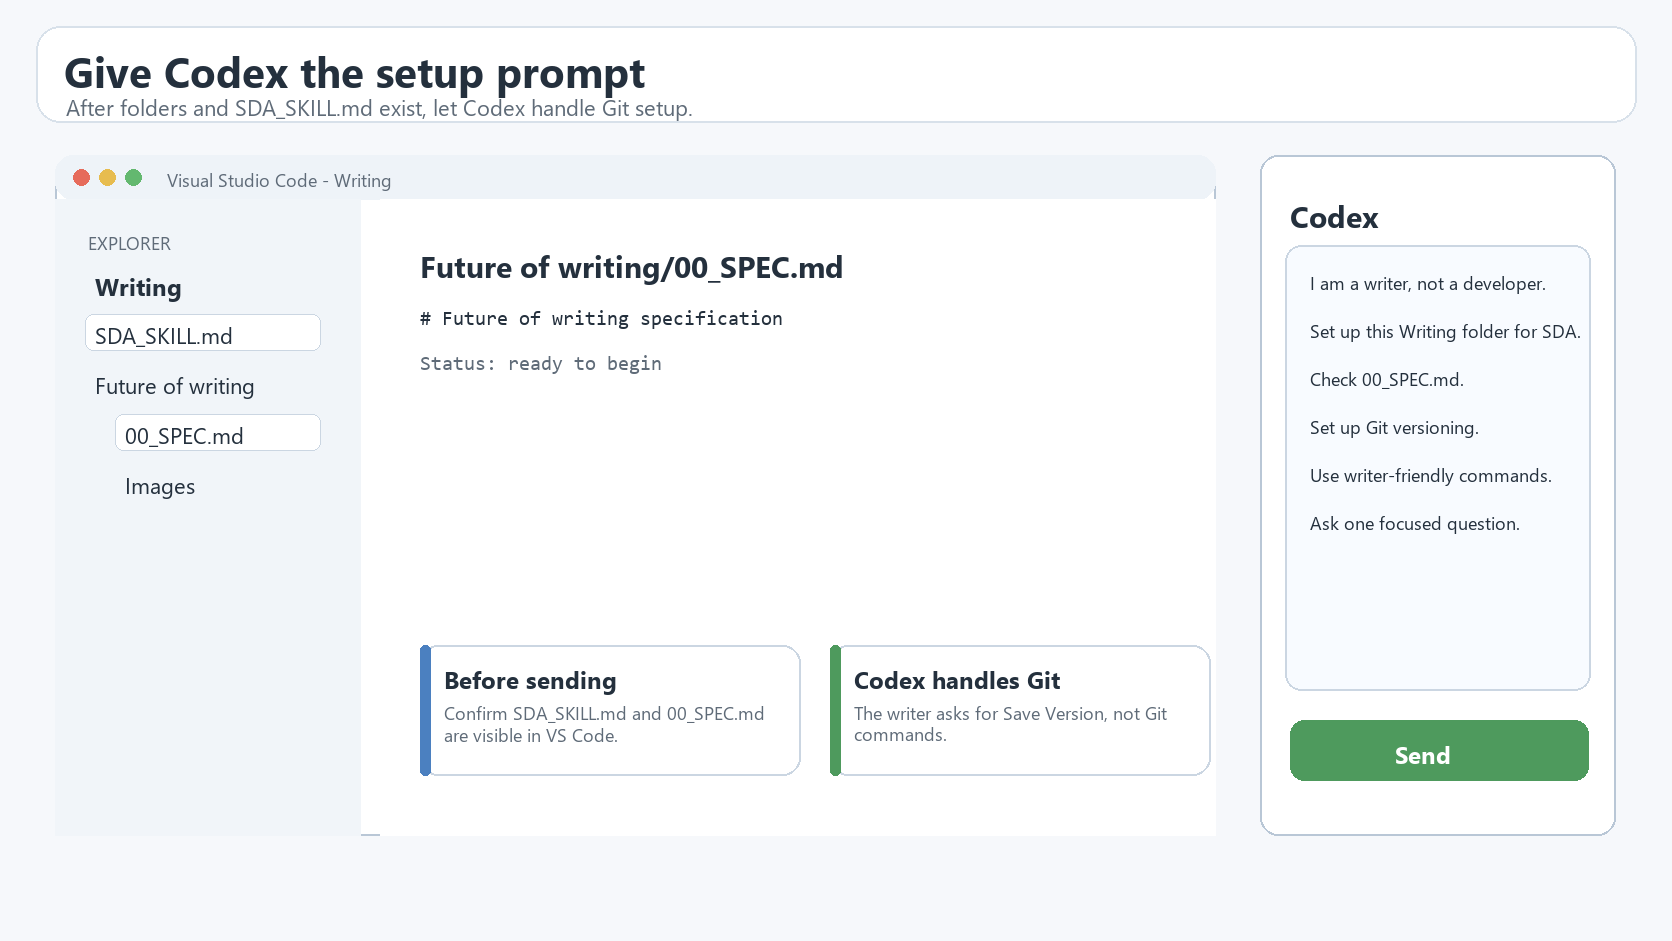
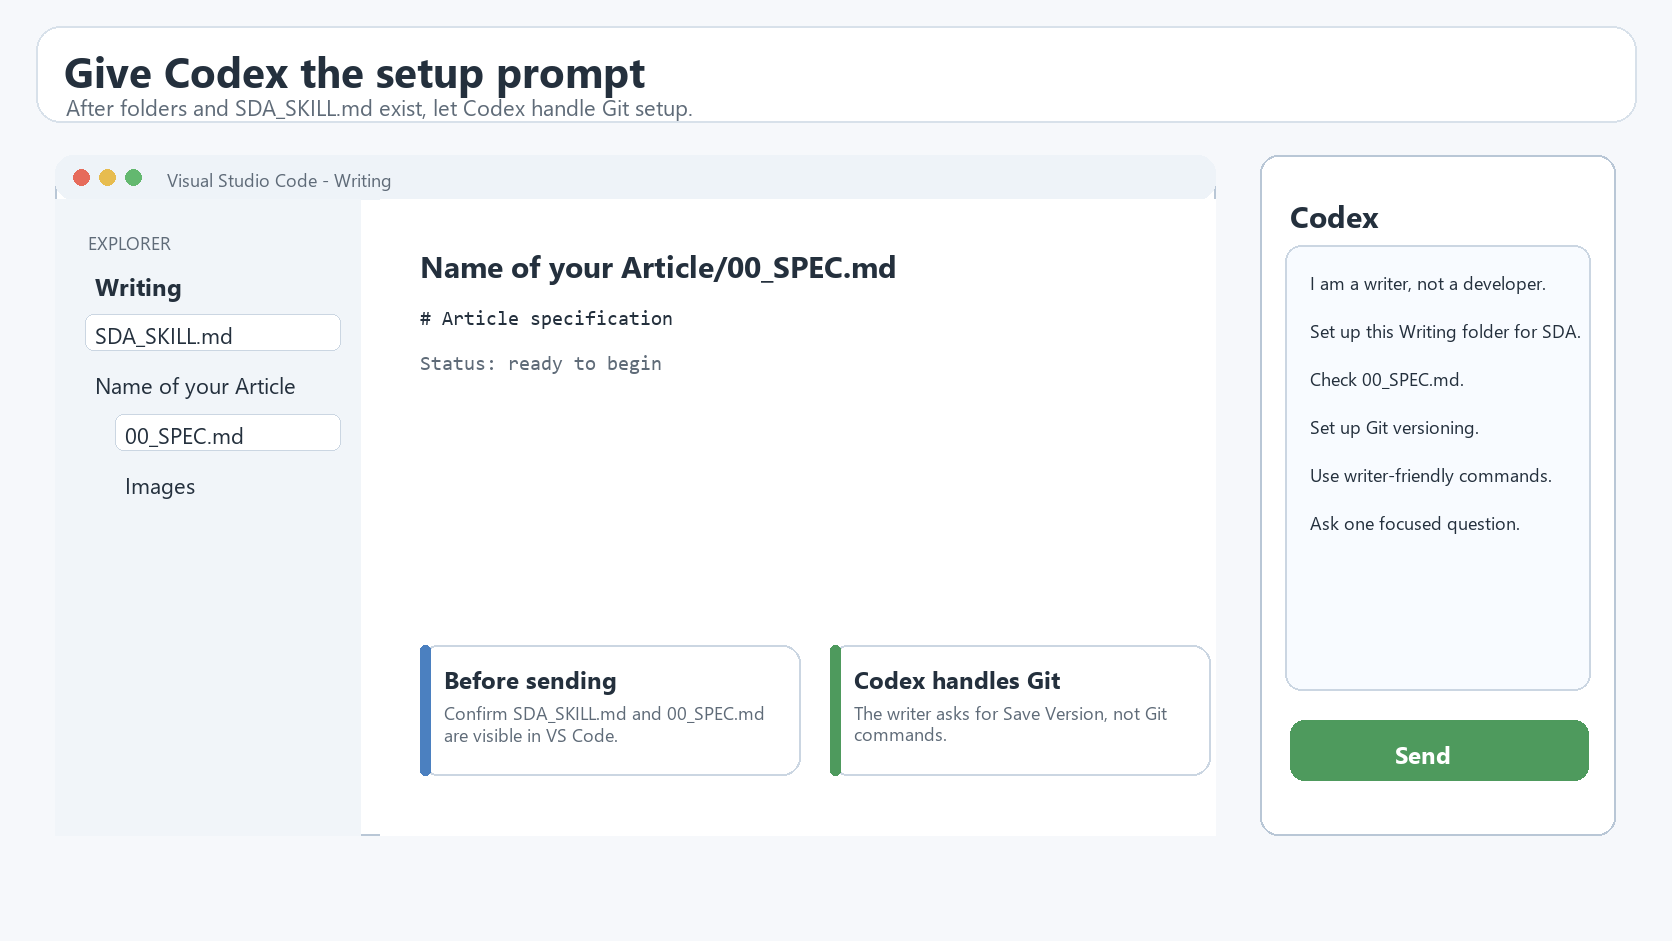
Revise Future of writing tutorial and conclusion

diff --git a/Articles/Future of writing/08_FINAL.md b/Articles/Future of writing/08_FINAL.md
@@ -16,6 +16,8 @@ Before large language models, before autocomplete, before spellcheckers, before 
 
 Then writing assistance became part of the software itself. Spellcheckers and grammar checkers made correction a normal feature of the writing surface [3]. AutoCorrect went further by changing text while the writer was still typing [4]. It is fair to understand these tools as part of the broader language-modeling tradition. Even when a particular implementation uses dictionaries, rules, or typo tables, the task can still be framed as modeling which words or sentences are likely and which corrections are plausible. Russell and Norvig place language models inside natural-language processing, and Jurafsky and Martin describe n-gram language models as a foundational way to estimate likely word sequences [5], [6]. These tools did not remove the writer. They changed the writer's environment.
 
+That is also how I understand Specification-Driven Authoring. Using SDA is not the same as pressing a button and receiving a finished article. It is closer, in spirit, to using a spellchecker, grammar checker, autocorrect, or autocomplete: the tool lowers friction and increases capability, but the writer still has to think, choose, revise, verify, and take responsibility. A spellchecker can catch a mistake, but it cannot decide what you mean. SDA can organize an AI-assisted writing process, but it cannot replace the writer's intent.
+
 Large language models are different in scale and behavior, but they are not the first language models to enter writing. What changed with systems such as GPT-3 was not the basic idea that language can be modeled. What changed was scale, generality, and interface: a model could now respond to natural-language instructions and examples across many tasks [7].
 
 That is why I do not see AI-assisted writing as a sudden moral rupture. I see it as a new stage in a long movement from physical writing tools to software writing tools, from software writing tools to language-aware writing tools, and from language-aware tools to agentic assistants that can participate in planning, drafting, checking, and revising.
@@ -33,6 +35,8 @@ Nor do I think the answer is to treat every suspicious sentence as evidence of g
 I agree with that direction. The question that matters most is not whether a tool was used. Writers have always used tools. The better question is whether the writer remains responsible for the text.
 
 My answer is Specification-Driven Authoring.
+
+The rest of this article follows that path. Part 2 defines SDA as a theory of AI-assisted writing: specification first, draft second, review always. Part 3 turns the theory into a Windows tutorial with VS Code, Codex, GitHub, and writer-friendly versioning. Part 3A shows setup. Part 3B shows daily use.
 
 ![Circular workflow with idea, writer-AI questions, specification, human approval, outline, draft, review against specification, revision, and final article.](Images/figure_02_sda_loop.png)
 
@@ -254,8 +258,8 @@ Now use Windows File Explorer, not a terminal.
 2. Open **Documents**.
 3. Create a new folder named `Writing`.
 4. Open the `Writing` folder.
-5. Create a folder for the first article, for example `Future of writing`.
-6. Open `Future of writing`.
+5. Create a folder for the first article, for example `Name of your Article`.
+6. Open `Name of your Article`.
 7. Create a folder named `Images`.
 
 The folder structure should begin like this:
@@ -263,11 +267,11 @@ The folder structure should begin like this:
 ```text
 Documents/
 `-- Writing/
-    `-- Future of writing/
+    `-- Name of your Article/
         `-- Images/
 ```
 
-![Screenshot-style guide showing Windows File Explorer with Documents, a Writing folder, a Future of writing article folder, and an Images folder.](Images/figure_10_create_writing_folders.png)
+![Screenshot-style guide showing Windows File Explorer with Documents, a Writing folder, a Name of your Article folder, and an Images folder.](Images/figure_10_create_writing_folders.png)
 
 *Figure 10. Create the writing folders in Windows File Explorer before asking Codex to configure the project. Source: author-created instructional screenshot-style figure.*
 
@@ -281,9 +285,11 @@ This article's project repository contains the reusable file [17]. Open:
 https://github.com/erobpen/Writing
 ```
 
-Find `SDA_SKILL.md`. Save or copy it into the `Writing` folder, beside the `Future of writing` folder.
+Find `SDA_SKILL.md`. Save or copy it into the `Writing` folder, beside the `Name of your Article` folder.
 
 One simple way is to open `SDA_SKILL.md` on GitHub, copy its full text, create a new file named `SDA_SKILL.md` in the `Writing` folder, paste the text, and save it. The exact method matters less than the result: the file must be named `SDA_SKILL.md`, and it must sit directly inside `Writing`.
+
+The `SDA_SKILL.md` file in my repository is the version I have written for my own writing process. It is a starting point, not a law. You can edit it, simplify it, expand it, or create a different `SDA_SKILL.md` that fits your genre, publication style, research needs, language, and preferred way of working with AI.
 
 The folder should now look like this:
 
@@ -291,7 +297,7 @@ The folder should now look like this:
 Documents/
 `-- Writing/
     |-- SDA_SKILL.md
-    `-- Future of writing/
+    `-- Name of your Article/
         `-- Images/
 ```
 
@@ -305,11 +311,11 @@ Now return to VS Code.
 2. Choose the `Writing` folder in Documents.
 3. Click **Select Folder**.
 
-VS Code should show `SDA_SKILL.md` and the `Future of writing` folder in the file explorer on the left.
+VS Code should show `SDA_SKILL.md` and the `Name of your Article` folder in the file explorer on the left.
 
 Inside VS Code, create the first specification file:
 
-1. In the left file explorer, right-click `Future of writing`.
+1. In the left file explorer, right-click `Name of your Article`.
 2. Select **New File**.
 3. Name the file `00_SPEC.md`.
 
@@ -319,7 +325,7 @@ The folder now looks like this:
 Documents/
 `-- Writing/
     |-- SDA_SKILL.md
-    `-- Future of writing/
+    `-- Name of your Article/
         |-- 00_SPEC.md
         `-- Images/
 ```
@@ -328,15 +334,15 @@ Documents/
 
 At this point, the writer has done the Windows tasks. Now Codex can do the technical setup.
 
-Open the Codex sidebar and paste this prompt:
+Open the Codex sidebar and paste this prompt. If you did not name your folder exactly `Name of your Article`, replace that phrase with your folder's real name before sending.
 
 ```text
-Read SDA_SKILL.md and the article folder "Future of writing".
+Read SDA_SKILL.md and the article folder "Name of your Article".
 
 I am a writer, not a developer.
 Please set up this Writing folder for Specification-Driven Authoring.
 
-First, check that "Future of writing/00_SPEC.md" exists.
+First, check that "Name of your Article/00_SPEC.md" exists.
 If it does not exist, create it.
 
 Then set up Git versioning for this Writing folder.
@@ -373,7 +379,7 @@ When setup is complete, the writer should be able to use ordinary commands in co
 Later, after the specification is approved, the article folder can grow into:
 
 ```text
-Future of writing/
+Name of your Article/
 |-- 00_SPEC.md
 |-- 01_RESEARCH_PLAN.md
 |-- 02_SOURCES.md
@@ -504,7 +510,17 @@ The future of writing is not just better autocomplete. It is not just chatbots i
 
 But that collaboration needs discipline.
 
-If writers simply ask for drafts, they risk getting fluent prose without enough authorship. If they reject all AI assistance, they may miss a tool that can help them think, organize, verify, and revise. Specification-Driven Authoring is one attempt to find the middle path.
+There is real resistance to AI-assisted writing, and sometimes that resistance is correct. LLMs can generate a lot of fluent nothing: generic text, weak claims, fake confidence, and what people now call AI slop [10]. A bad article does not become good because a human typed every word, and a useful article does not become useless because AI helped the writer organize it. The only serious path is to judge the work, the process, the sources, and the responsibility behind it.
+
+I also do not want to pretend that tool evolution is painless. My parents were translators and court interpreters, and I also worked as a court interpreter earlier in life. In my own family, translation was a skilled and respectable profession. I saw that profession pressured over time: first by computer-assisted workflows and market changes, later by machine translation, and now by AI. Google describes Translate as beginning as an AI experiment in 2006, using statistical machine learning and language models, before a major shift to neural networks in 2016 [23]. Translation researchers have described how machine translation changes the translator's work toward checking, evaluating, and monitoring output rather than simply translating from a blank page [24]. A recent INSEAD working paper even uses Google's neural translation rollout in 2016-2017 as evidence of reduced human translation transactions in an online labor market [25].
+
+So yes, I understand why people are worried. I have seen a profession close to my family lose some of its old status and pricing power. Many other professions have similar stories, and AI is accelerating the pattern.
+
+But history also teaches caution in the other direction. Technological progress can hurt individuals and professions while still producing broad social benefits, and it can produce risks alongside benefits [26]. Fighting the existence of the tool rarely works. The better question is how to shape the tool, who gets access to it, what standards surround it, and whether ordinary people can use it without being exploited or misled.
+
+That is why AI-assisted writing matters. It can empower people who are not native speakers. It can help people who are not naturally fluent writers. It can help domain experts share knowledge that might otherwise remain trapped in notes, conversations, or unfinished drafts. Some of those people will have something useful to say. Society benefits when more of that knowledge becomes readable.
+
+Specification-Driven Authoring is one attempt to find the middle path. If writers simply ask for drafts, they risk getting fluent prose without enough authorship. If they reject all AI assistance, they may miss a tool that can help them think, organize, verify, and revise. SDA is a way to use the tool while keeping intent, judgment, evidence, and responsibility visible.
 
 This article presents my current practical version: VS Code, Codex, Git, GitHub, Markdown, and a specification-first workflow. It is not the final answer. Future articles can explore different setups, different tools, and the deeper question of what it means to communicate with computers in natural language.
 
@@ -557,3 +573,11 @@ Until then, we can borrow the developer workflow and make it humane for writers.
 [21] Microsoft, "Extension Marketplace," Visual Studio Code Docs. https://code.visualstudio.com/docs/configure/extensions/extension-marketplace
 
 [22] GitHub Docs, "Creating an account on GitHub." https://docs.github.com/en/get-started/start-your-journey/creating-an-account-on-github
+
+[23] R. Yao, "Celebrating 20 years of Google Translate: Fun facts, tips and new features to try," Google Blog, Apr. 28, 2026. https://blog.google/products-and-platforms/products/translate/fun-facts-google-translate-20-years/
+
+[24] J. DeCamp, "The Impact of Advances in Neural and Statistical MT on the Translation Workforce," Proceedings of AMTA 2018, vol. 2: MT Users' Track, pp. 234-243. https://aclanthology.org/W18-1918/
+
+[25] E. D. Yilmaz, I. Naumovska, and V. A. Aggarwal, "AI-Driven Labor Substitution: Evidence from Google Translate and ChatGPT," INSEAD Working Paper, 2023/24/EFE. https://www.insead.edu/faculty-research/publications/working-papers/ai-driven-labor-substitution-evidence-google-translate
+
+[26] M. Roser, "Technology over the long run: zoom out to see how dramatically the world can change within a lifetime," Our World in Data, Feb. 22, 2023. https://ourworldindata.org/technology-long-run

diff --git a/Articles/Future of writing/02_SOURCES.md b/Articles/Future of writing/02_SOURCES.md
@@ -118,6 +118,26 @@ Sources use the article's numerical citation style. Status values:
 - Status: Verified.
 - Use for: GitHub signup and verified-email requirement before repository tasks.
 
+[23] Rose Yao, "Celebrating 20 years of Google Translate: Fun facts, tips and new features to try," Google Blog, Apr. 28, 2026. Link: https://blog.google/products-and-platforms/products/translate/fun-facts-google-translate-20-years/
+
+- Status: Verified.
+- Use for: Google Translate beginning as an AI experiment in 2006, use of statistical machine learning and language models, and the 2016 shift to neural networks.
+
+[24] Jennifer DeCamp, "The Impact of Advances in Neural and Statistical MT on the Translation Workforce," Proceedings of AMTA 2018, vol. 2: MT Users' Track, pp. 234-243. Link: https://aclanthology.org/W18-1918/
+
+- Status: Verified.
+- Use for: machine translation changing translator work toward monitoring, evaluation, completeness, accuracy, and cultural context.
+
+[25] E. D. Yilmaz, I. Naumovska, and V. A. Aggarwal, "AI-Driven Labor Substitution: Evidence from Google Translate and ChatGPT," INSEAD Working Paper, 2023/24/EFE. Link: https://www.insead.edu/faculty-research/publications/working-papers/ai-driven-labor-substitution-evidence-google-translate
+
+- Status: Verified.
+- Use for: empirical evidence that Google's neural translation introduction in 2016-2017 reduced human translation transactions in an online labor market.
+
+[26] Max Roser, "Technology over the long run: zoom out to see how dramatically the world can change within a lifetime," Our World in Data, Feb. 22, 2023. Link: https://ourworldindata.org/technology-long-run
+
+- Status: Verified.
+- Use for: broad historical framing that technological change can transform society quickly and produce both beneficial and harmful consequences.
+
 ## Source Notes
 
 - Source [10] should be manually checked in the browser before final submission to Towards AI because Codex could not independently fetch YouTube metadata.

diff --git a/Articles/Future of writing/00_SPEC.md b/Articles/Future of writing/00_SPEC.md
@@ -55,6 +55,14 @@ This specification has been approved for article production. It is the authorita
 - Repository reference: one reference in the article should point to this GitHub repository, `https://github.com/erobpen/Writing`, so curious readers can inspect the evolving specification, workflow, and supporting materials.
 - Process transparency: at the end of the project, this chat or a curated version of it may be exported to Markdown and included or linked, after review for privacy and relevance, so readers can see how the article was developed through SDA.
 - Part 1 reference candidate: include one sentence engaging with Max Kotin's YouTube video "Nobody Can Spot AI in Writing, Actually" as a recent argument that judging writing by suspected AI authorship is less useful than judging the quality of the text itself. This source should be verified before publication.
+- SDA/spellchecker analogy: Part 1 should explicitly note that using SDA is like using a spellchecker, grammar checker, autocorrect, or autocomplete in one important sense: the tool empowers the writer, but the writer still has to think, decide, revise, verify, and take responsibility for the result.
+- Reader navigation: near the end of Part 1, include a brief layout map of the article so readers can quickly understand how to navigate the argument, SDA theory, and tutorial sections.
+- Generic reader tutorial naming: the setup tutorial should not use this article's title, "Future of writing," as the reader's example folder. Use a generic placeholder such as `Name of your Article` so readers understand they are creating their own article project.
+- SDA skill customization: in the setup tutorial, explain that `SDA_SKILL.md` is the author's reusable workflow file, but readers may edit it or create their own version to fit their writing needs, genre, publication process, and preferred collaboration style.
+- Conclusion tension: the conclusion should acknowledge real resistance to AI-assisted writing. Some of that resistance is justified because LLMs can generate fluent but low-quality AI slop. The article should argue that the answer is not blanket rejection, but better workflows, judgment, and accountability.
+- Translation disruption example: the conclusion should include the author's family experience with translation and court interpreting. It should note that Google Translate began as an AI/machine-learning translation service in 2006, and that machine translation and later neural machine translation have affected translation work, pricing, and professional status. Personal claims about the author's parents and the author's own interpreting experience should be framed as personal experience.
+- Progress framing: the conclusion should state that technological progress can harm individual professions or workers even when it brings wider social benefits. The article should avoid naive optimism, but should also argue that fighting tool evolution is historically unproductive. The better response is to make the tools humane, accountable, and accessible.
+- Empowerment claim: the conclusion should say that AI-assisted writing can empower many more people to write, including non-native speakers and people who are not naturally strong writers but who have useful domain knowledge to share.
 
 ## Proposed Decisions
 
@@ -74,6 +82,8 @@ This specification has been approved for article production. It is the authorita
   - Add the caution that computers are still not humans: natural language lowers the barrier, but it does not remove the need for structure, verification, and author responsibility.
   - Include one sentence referencing Max Kotin's argument that attempts to detect AI writing can be misleading or harmful, and connect it to this article's position that the human writer's judgment, authorship, and responsibility matter more than whether AI was used as a tool.
   - Establish the author's position that using AI is not cheating when the human remains the author, decision-maker, and accountable editor.
+  - Add the analogy that SDA, like spellchecking or autocorrect, does not do the whole work. It lowers friction and increases capability, but the writer still supplies intent, judgment, revision, verification, and responsibility.
+  - End with a short article map: Part 1 explains legitimacy, Part 2 explains SDA theory, Part 3 shows a practical Windows setup and usage workflow.
 
 - Part 2: high-level SDA theory, roughly 2/5 of the article.
   - Define Specification-Driven Authoring in detail.
@@ -85,6 +95,8 @@ This specification has been approved for article production. It is the authorita
 - Part 3: practical tutorial, roughly 2/5 of the article.
   - Refer back to Part 2 wherever possible, so readers understand how each practical step implements the SDA theory.
   - Part 3A should be a Windows-specific setup tutorial for non-developer writers, not a vague overview. Prefer GUI-first steps: install VS Code, install Codex from the VS Code Extensions button, create a GitHub account in the browser, create folders in Windows File Explorer, add `SDA_SKILL.md`, open the folder in VS Code, and give Codex a setup prompt so Codex handles the Git/versioning setup with writer-friendly language.
+  - Part 3A should use a generic folder placeholder such as `Name of your Article`, not this article's title, when instructing readers to create their own article folder.
+  - Part 3A should explain that the author's `SDA_SKILL.md` can be reused as a starting point, but readers may edit or replace it with their own workflow file.
   - Part 3B should explain usage.
   - Part 3B should show how the writer uses the four versioning commands: Save Version, Compare Versions, Restore Previous Version, and Publish Backup to GitHub.
   - The concrete solution should be VS Code + Codex + Git-based versioning.
@@ -92,6 +104,11 @@ This specification has been approved for article production. It is the authorita
 
 - Conclusion:
   - Reinforce that SDA is one step toward democratizing agentic AI for non-developers.
+  - Acknowledge resistance to AI-assisted writing and admit that some of it is correct because LLMs can generate low-quality AI slop.
+  - Use translation as a personal and sourced example of technological disruption: the author's parents were translators and court interpreters, the author also worked as a court interpreter, and machine translation has affected the profession over decades.
+  - Note that Google Translate started in 2006, and neural machine translation accelerated disruption after 2016.
+  - Explain that progress can be socially beneficial while still painful in individual cases.
+  - Argue that AI-assisted writing can help non-native speakers and domain experts share knowledge that might otherwise remain unpublished.
   - Note that future articles may cover different variants of this setup, so this article presents the author's current practical version rather than the only possible solution.
   - Close by naming the need for a future purpose-built SDA writing application that gives non-developers these capabilities out of the box.
 

diff --git a/Articles/Future of writing/05_IMAGE_PROMPTS.md b/Articles/Future of writing/05_IMAGE_PROMPTS.md
@@ -134,12 +134,12 @@ Create a clear screenshot-style tutorial figure showing a browser on a GitHub ac
 - File name: `figure_10_create_writing_folders.png`
 - Location: Part 3A, after the Windows File Explorer folder steps.
 - Caption draft: Create the writing folders in Windows File Explorer before asking Codex to configure the project.
-- Alt text: Screenshot-style guide showing Windows File Explorer with Documents, a Writing folder, a Future of writing article folder, and an Images folder.
+- Alt text: Screenshot-style guide showing Windows File Explorer with Documents, a Writing folder, a Name of your Article folder, and an Images folder.
 - Source note: Author-created instructional screenshot-style figure.
 - Prompt:
 
 ```text
-Create a clear screenshot-style tutorial figure showing Windows File Explorer. Show Documents > Writing > Future of writing > Images. Highlight the Writing folder, article folder, and Images folder. Use callouts that say create folders in File Explorer, not the terminal. Use a calm instructional style with large readable labels.
+Create a clear screenshot-style tutorial figure showing Windows File Explorer. Show Documents > Writing > Name of your Article > Images. Highlight the Writing folder, article folder, and Images folder. Use callouts that say create folders in File Explorer, not the terminal. Use a calm instructional style with large readable labels.
 ```
 
 ### Figure 11: Codex Setup Prompt
@@ -152,5 +152,5 @@ Create a clear screenshot-style tutorial figure showing Windows File Explorer. S
 - Prompt:
 
 ```text
-Create a clear screenshot-style tutorial figure showing VS Code with a Writing folder open. In the file explorer show SDA_SKILL.md, Future of writing, 00_SPEC.md, and Images. On the right show a Codex sidebar with a setup prompt beginning "I am a writer, not a developer." Highlight that Codex will set up Git versioning and ask one focused specification question. Use readable text and a clean instructional layout.
+Create a clear screenshot-style tutorial figure showing VS Code with a Writing folder open. In the file explorer show SDA_SKILL.md, Name of your Article, 00_SPEC.md, and Images. On the right show a Codex sidebar with a setup prompt beginning "I am a writer, not a developer." Highlight that Codex will set up Git versioning and ask one focused specification question. Use readable text and a clean instructional layout.
 ```